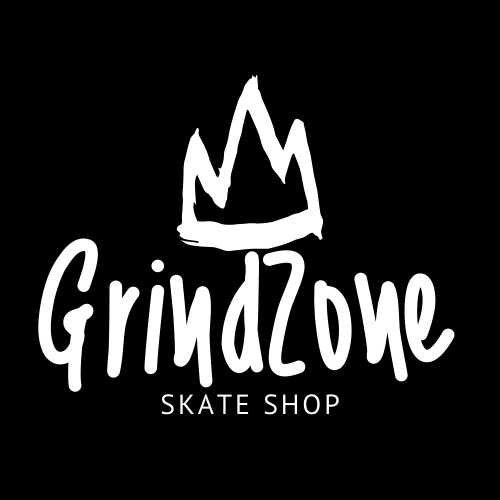
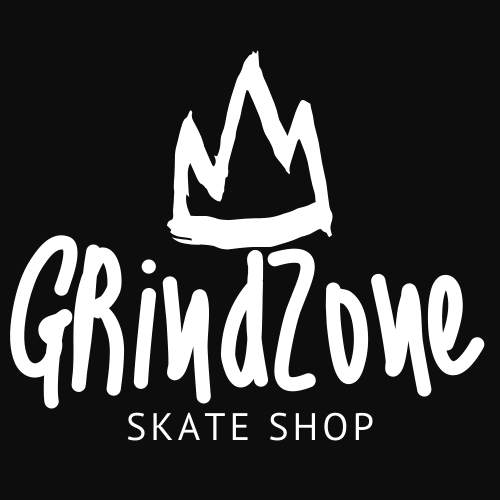
modo-noturno

Changed region(s): [[0.0, 0.09, 0.99, 0.9], [0.33, 0.87, 0.36, 0.9]]

diff --git a/produtos.html b/produtos.html
@@ -20,16 +20,16 @@
 
   <header>
     <nav class="navbar-expand-lg navbar backPadrao fixed-top p-0 bg-white border-bottom">
-      <div class="container-fluid bg">
-        <a class="navbar-brand p-0" href="#"><img class="img-fluid mx-5" src="./assets/GrindZone-light.png"
-            style="max-width: 80px;" alt="Logo da cafeteria Serenatto"></a>
+      <div class="container-fluid nav-cont">
+        <a class="navbar-brand p-0" href="#"><img class="img-fluid img-img mx-5" src="./assets/GrindZone-light.png"
+          style="max-width: 80px;" alt="Logo da cafeteria Serenatto"></a>
         <button class="navbar-toggler" type="button" data-bs-toggle="offcanvas" data-bs-target="#offcanvasNavbar"
           aria-controls="offcanvasNavbar" aria-label="Toggle navigation">
           <span class="navbar-toggler-icon"></span>
         </button>
         <div class="offcanvas offcanvas-end" tabindex="-1" id="offcanvasNavbar" aria-labelledby="offcanvasNavbarLabel">
           <div class="offcanvas-header">
-            <h5 class="offcanvas-title" id="offcanvasNavbarLabel"><img src="./assets/GrindZone-light.png"
+            <h5 class="offcanvas-title" id="offcanvasNavbarLabel"><img class="img-img" src="./assets/GrindZone-light.png"
                 style="max-width: 200px;" alt="Logo da cafeteria Serenatto"></h5>
             <button type="button" class="btn-close" data-bs-dismiss="offcanvas" aria-label="Close"></button>
           </div>
@@ -42,7 +42,7 @@
                 <a class="nav-link" href="#">
                   <div class="form-check form-switch">
                     <input class="form-check-input" type="checkbox" role="switch" id="modo-noturno">
-                    <label class="form-check-label" for="modo-noturno"><i class="bi bi-brightness-high d-flex align-items-center fs-4"></i><i class="bi bi-moon d-none"></i></label>
+                    <label class="form-check-label" for="modo-noturno">Modo noturno</label>
                   </div>
                 </a>
               </li>
@@ -56,10 +56,6 @@
     <h4>Filtros</h4>
     <form>
       <div class="mb-3">
-        <label for="search" class="form-label  py-2">Buscar</label>
-        <input type="text" class="form-control" id="search" placeholder="Buscar produtos">
-      </div>
-      <div class="mb-3">
         <label for="category" class="form-label py-2">Categoria</label>
         <select id="category" class="form-select">
           <option selected>Escolha...</option>
@@ -69,50 +65,25 @@
           <option value="4">Acessórios</option>
         </select>
       </div>
-      <div class="mb-3">
-        <label for="priceRange" class="form-label py-2">Faixa de Preço</label>
-        <input type="range" class="form-range" min="0" max="1000" id="priceRange">
-        <div class="d-flex justify-content-between">
-          <span>R$0</span>
-          <span>R$1000</span>
-        </div>
+      <div class="form-check py-2">
+        <input class="form-check-input" type="checkbox" value="" id="rating1">
+        <label class="form-check-label" for="rating1">
+          Menor preço
+        </label>
       </div>
-      <div class="mb-3">
-        <label class="form-label py-2">Avaliação</label>
-        <div>
-          <div class="form-check py-1">
-            <input class="form-check-input" type="checkbox" value="" id="rating1">
-            <label class="form-check-label" for="rating1">
-              1 estrela
-            </label>
-          </div>
-          <div class="form-check py-1">
-            <input class="form-check-input" type="checkbox" value="" id="rating2">
-            <label class="form-check-label" for="rating2">
-              2 estrelas
-            </label>
-          </div>
-          <div class="form-check py-1">
-            <input class="form-check-input" type="checkbox" value="" id="rating3">
-            <label class="form-check-label" for="rating3">
-              3 estrelas
-            </label>
-          </div>
-          <div class="form-check py-1">
-            <input class="form-check-input" type="checkbox" value="" id="rating4">
-            <label class="form-check-label" for="rating4">
-              4 estrelas
-            </label>
-          </div>
-          <div class="form-check py-1">
-            <input class="form-check-input" type="checkbox" value="" id="rating5">
-            <label class="form-check-label" for="rating5">
-              5 estrelas
-            </label>
-          </div>
-        </div>
+      <div class="form-check py-2">
+        <input class="form-check-input" type="checkbox" value="" id="rating1">
+        <label class="form-check-label" for="rating1">
+          Maior preço
+        </label>
       </div>
-      <button type="submit" class="btn btn-primary w-100 my-1">Aplicar Filtros</button>
+      <div class="form-check py-3">
+        <input class="form-check-input" type="checkbox" value="" id="rating1">
+        <label class="form-check-label" for="rating1">
+          Promoção
+        </label>
+      </div>
+      <button type="submit" class="btn btn-primary w-100 my-1 btn-roxo border-0">Aplicar Filtros</button>
     </form>
   </div>
   <div class="content">

diff --git a/index.html b/index.html
@@ -20,8 +20,8 @@
 
   <header>
     <nav class="navbar-expand-lg navbar backPadrao fixed-top p-0 bg-white border-bottom">
-      <div class="container-fluid bg">
-        <a class="navbar-brand p-0"><img class="img-fluid mx-5" src="./assets/GrindZone-light.png"
+      <div class="container-fluid nav-cont">
+        <a class="navbar-brand p-0"><img class="img-fluid img-img mx-5" src="./assets/GrindZone-light.png"
             style="max-width: 80px;" alt="Logo da cafeteria Serenatto"></a>
         <button class="navbar-toggler" type="button" data-bs-toggle="offcanvas" data-bs-target="#offcanvasNavbar"
           aria-controls="offcanvasNavbar" aria-label="Toggle navigation">
@@ -29,14 +29,14 @@
         </button>
         <div class="offcanvas offcanvas-end" tabindex="-1" id="offcanvasNavbar" aria-labelledby="offcanvasNavbarLabel">
           <div class="offcanvas-header">
-            <h5 class="offcanvas-title" id="offcanvasNavbarLabel"><img src="./assets/GrindZone-light.png"
+            <h5 class="offcanvas-title" id="offcanvasNavbarLabel"><img class="img-img" src="./assets/GrindZone-light.png"
                 style="max-width: 200px;" alt="Logo da cafeteria Serenatto"></h5>
             <button type="button" class="btn-close" data-bs-dismiss="offcanvas" aria-label="Close"></button>
           </div>
           <div class="offcanvas-body">
             <ul class="navbar-nav justify-content-end flex-grow-1 pe-3 ">
               <li class="nav-item">
-                <a class="nav-link active" id="nav-link" aria-current="page" href="#categorias">Categorias</a>
+                <a class="nav-link" id="nav-link" aria-current="page" href="#categorias">Categorias</a>
               </li>
               <li class="nav-item">
                 <a class="nav-link" id="nav-link" href="#promocao">Promoçôes</a>
@@ -61,7 +61,7 @@
 
   <main id="categorias">
 
-    <section id="carouselExampleAutoplaying" class="carousel carousel-dark slide mt-5 pt-2" data-bs-ride="carousel">
+    <section id="carouselExampleAutoplaying" class="carousel trade carousel-dark slide mt-5 pt-2" data-bs-ride="carousel">
       <div class="carousel-inner border-bottom">
         <div class="carousel-item active">
           <img src="./assets/desktop/banner-1-home.png" class="d-none d-xl-block banner-home container" alt="...">
@@ -120,7 +120,7 @@
         <div class="card p-0 align-items-center">
           <img class="card-img" alt="" src="./assets/truck-independent-149mm.png">
           <div class="card-body card-header btn-roxo w-100">
-            <h5 class="text-center card-text fw-bold">Truck</h5>
+            <h5 class="text-center card-text text-ctg fw-bold">Truck</h5>
           </div>
         </div>
       </div>
@@ -316,7 +316,7 @@
     <section class="py-4 container">
       <article class="row">
         <div class="col-10 col-xl-8 mx-auto">
-          <div class="border border-2 rounded p-3">
+          <div class="border border-2 rounded p-3 nav-cont">
             <h3 class="fw-bold p-3">Entre em contato!</h3>
             <form id="contato">
               <div class="form-floating mb-3">

diff --git a/scripts.js b/scripts.js
@@ -1,7 +1,48 @@
-const navLinks = document.querySelectorAll("#nav-link");
+document.addEventListener('DOMContentLoaded', () => {
+    const navLinks = document.querySelectorAll("#nav-link");
+    const inputCheck = document.querySelector('#modo-noturno');
+    const elemento = document.querySelector('body');
+    const img = document.querySelector('.img-img');
+    const spanBanner = document.querySelector('.carousel');
 
-navLinks.forEach(link => { link.addEventListener('click', function() {
-        navLinks.forEach(nav => nav.classList.remove('active'));
-        this.classList.add('active');
+    // Função para aplicar o modo noturno
+    const aplicarModoNoturno = (ativo) => {
+        const modo = ativo ? 'dark' : 'light';
+        elemento.setAttribute("data-bs-theme", modo);
+        localStorage.setItem('modoNoturnoAtivo', ativo);
+
+        if (spanBanner) {
+            if (ativo) {
+                spanBanner.classList.remove('carousel-dark');
+            } else {
+                spanBanner.classList.add('carousel-dark');
+            }
+        }
+
+        if (img) {
+            img.src = ativo ? "./assets/GrindZone-dark.png" : "./assets/GrindZone-light.png";
+        }
+    };
+
+    // Sincronizar o estado do modo noturno ao carregar a página
+    const modoNoturnoAtivo = localStorage.getItem('modoNoturnoAtivo') === 'true';
+    aplicarModoNoturno(modoNoturnoAtivo);
+    if (inputCheck) {
+        inputCheck.checked = modoNoturnoAtivo;
+    }
+
+    // Adicionar evento de clique para mudar a classe active nos links de navegação
+    navLinks.forEach(link => {
+        link.addEventListener('click', function() {
+            navLinks.forEach(nav => nav.classList.remove('active'));
+            this.classList.add('active');
+        });
     });
+
+    // Adicionar evento de clique para o modo noturno
+    if (inputCheck) {
+        inputCheck.addEventListener('click', () => {
+            aplicarModoNoturno(inputCheck.checked);
+        });
+    }
 });

diff --git a/style.css b/style.css
@@ -3,8 +3,10 @@
     
  }
  
+ 
  body {
     --cor2-light: #F0E9FF;
+    --cor1-dark: #0E0D0D;
     --roxo-: #50518C;
  }
 
@@ -96,3 +98,19 @@
       width: 35vh;
    }
  }
+
+ [data-bs-theme="dark"] {
+   color: white;
+}
+
+[data-bs-theme="dark"] .nav-cont {
+   background-color: var(--cor1-dark);
+}
+
+[data-bs-theme="dark"] .text-decoration-line-through {
+   color: #A6A6A6!important;
+}
+
+[data-bs-theme="dark"] .sidebar {
+   background-color: var(--cor1-dark)!important;
+}
